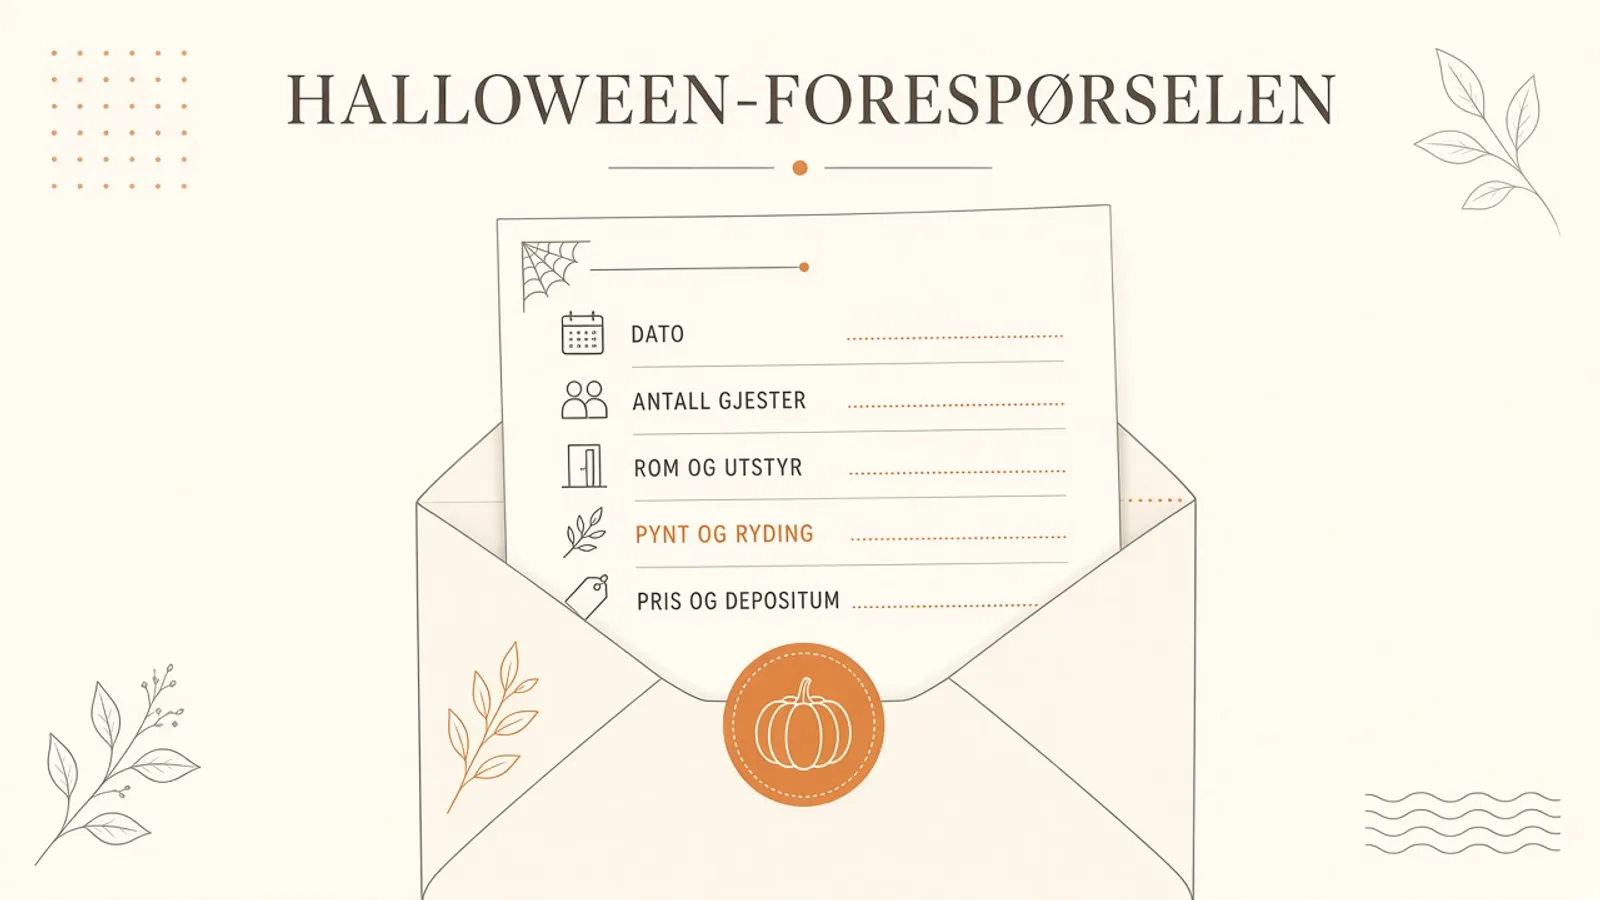
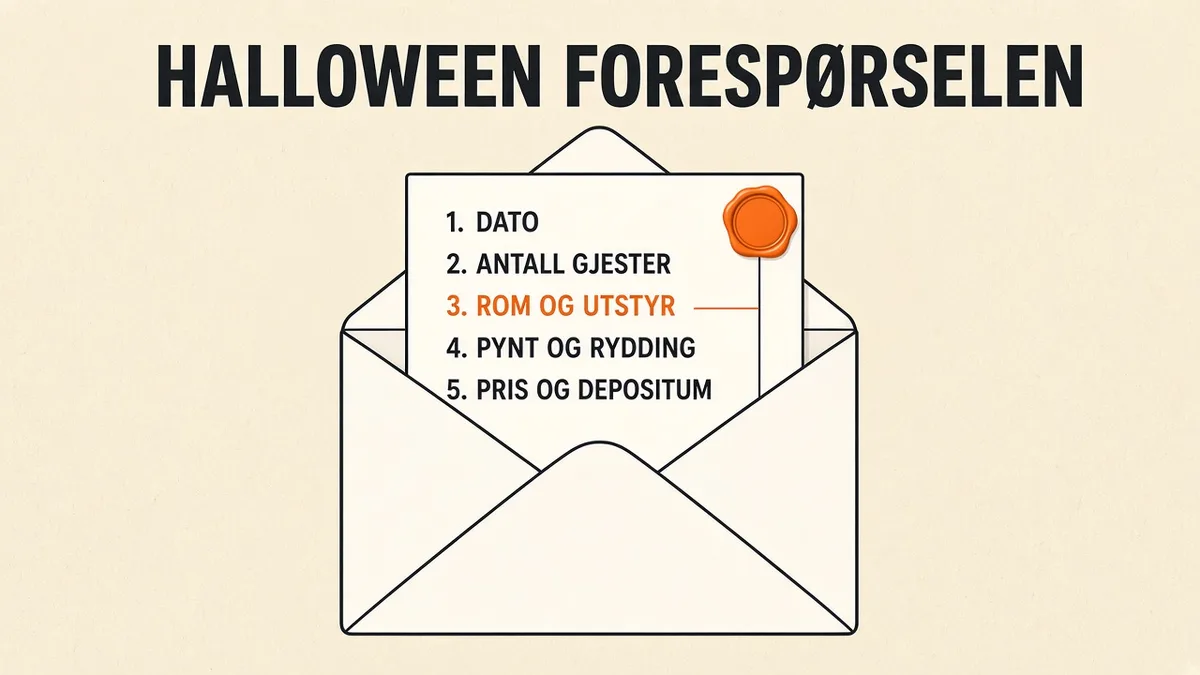
R1: Halloweenfest-post FAQ, CTA, meta og nytt cover
- Registrerer FAQ i blogFaq.mjs som speiler artikkelteksten
- Fjerner Digilist-prisblokk; legger til leiepriskalkulator-CTA
- Oppdaterer beskrivelse og kremfarget cover 1200×675 med preview

diff --git a/src/content/blog/lokale-til-halloweenfest-foresporselen.md b/src/content/blog/lokale-til-halloweenfest-foresporselen.md
@@ -2,13 +2,13 @@
 slug: lokale-til-halloweenfest-foresporselen
 title: "Lokale til halloweenfest: forespørselen til utleier"
 seoTitle: "Lokale til halloweenfest: forespørsel til utleier | Digilist"
-description: "Send utleieren én forespørsel som svarer på alt før de rekker å spørre: hva festen er, antall, pynt, levende lys, lyd og rydding. Her er forespørselen, avsnitt for avsnitt."
+description: "Send utleieren én forespørsel som svarer på alt: hva festen er, antall, pynt, levende lys, lyd og rydding. Her er forespørselen, avsnitt for avsnitt."
 date: 2026-10-25
 author: "Ibrahim Rahmani"
 role: "Grunnlegger, Digilist"
 tag: "Privatperson"
 cover: "/images/blog/lokale-til-halloweenfest-foresporselen.webp"
-coverAlt: "Åpnet konvolutt med et brev med fem merkede linjer: dato, antall gjester, rom og utstyr, pynt og rydding, pris og depositum, og et lite gresskarfrimerke"
+coverAlt: "Infografikk på kremfarget bakgrunn: åpnet konvolutt med brev og fem nummererte linjer merket dato, antall gjester, rom og utstyr, pynt og rydding og pris og depositum, med oransje gresskarsegl på konvolutten. Overskrift «HALLOWEEN FORESPØRSELEN»."
 priceBlock: shared
 keywords:
   - lokale til halloweenfest
@@ -48,11 +48,9 @@ Tape, festemidler og falsk spindelvev kan skade vegger og tak. Mange lokaler har
 
 Pynt og lys bør avklares før handlelisten er skrevet.
 
-For den som leier ut et lokale, er Digilist et abonnement, ikke en provisjon.
-
 <!-- price-block: shared -->
 
-[Se priser](https://digilist.no/priser)
+[Regn ut hva lokalet til festen bør koste før forespørselen sendes.](/verktoy/leiepriskalkulator)
 
 ## Røykmaskin og lyd er spørsmålet som oftest glemmes
 
